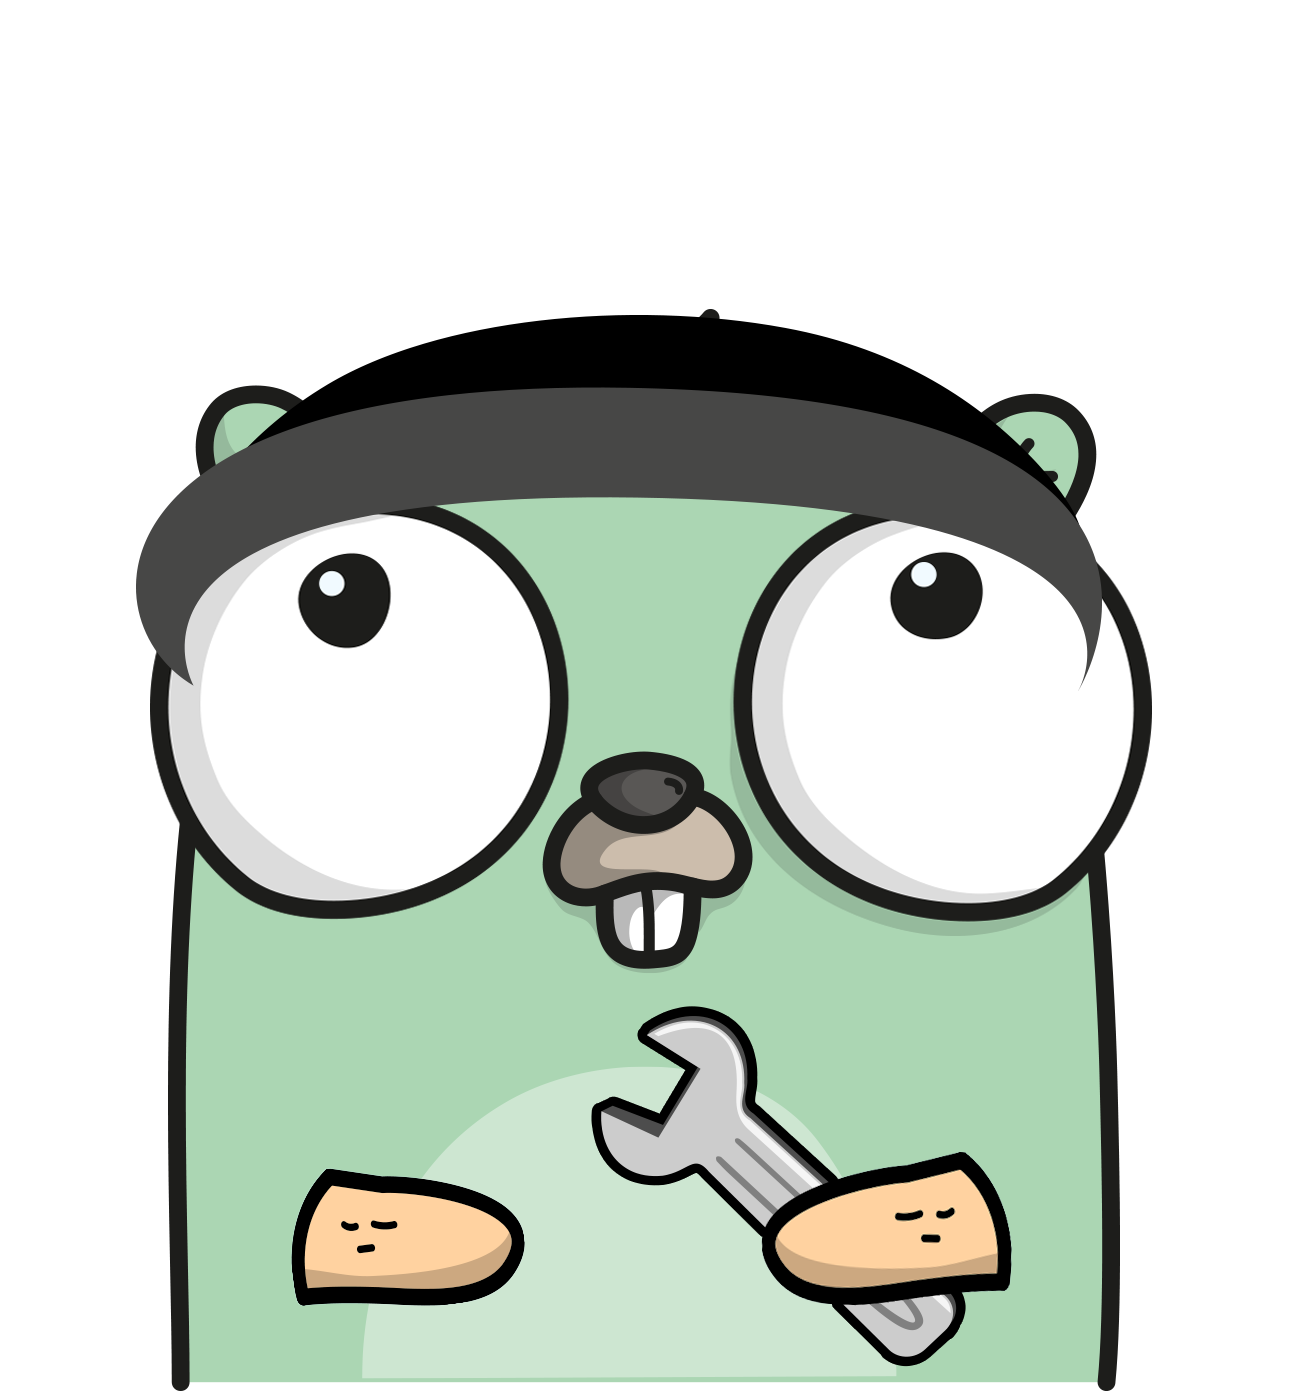
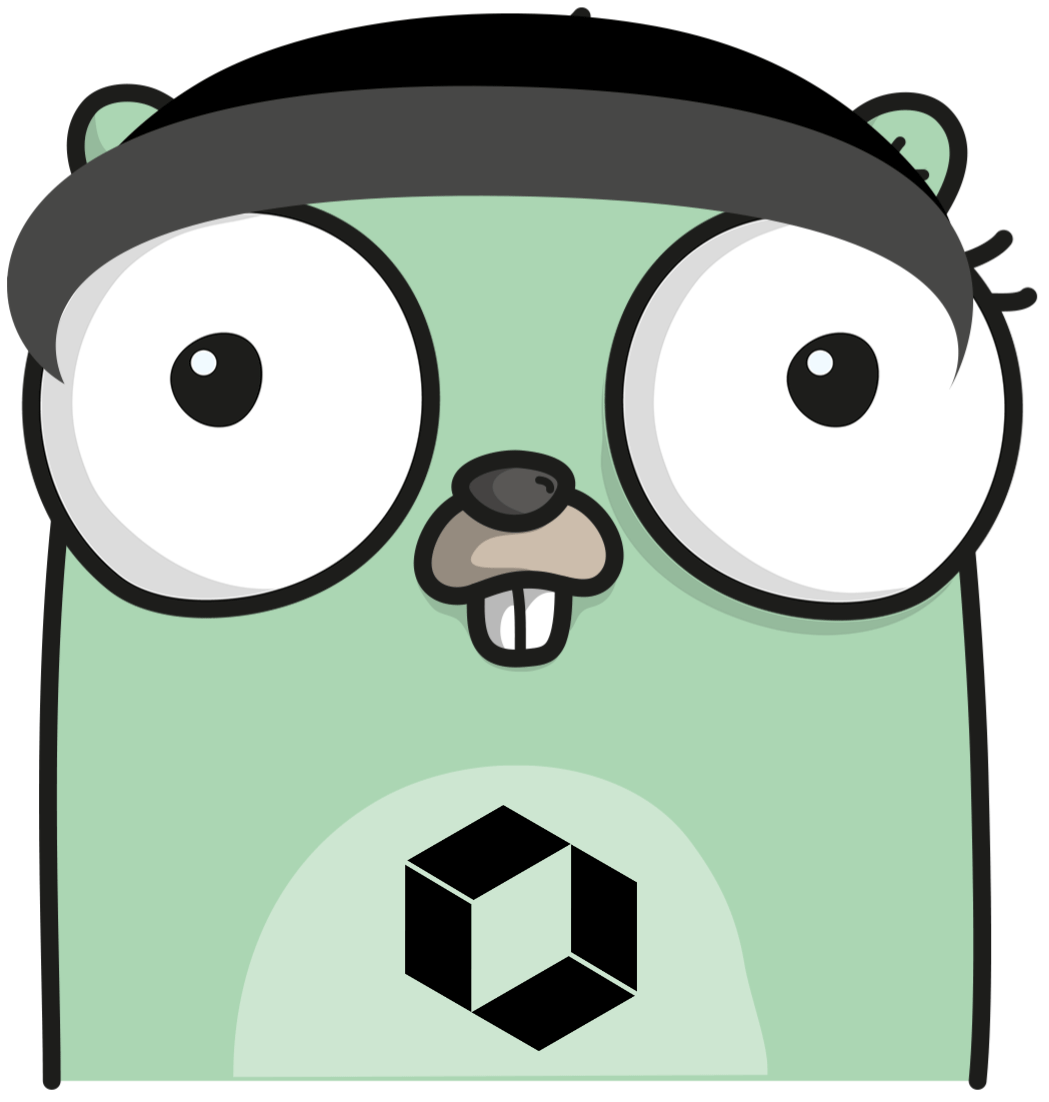
Add new gopher in Readme (#148)

diff --git a/README.md b/README.md
@@ -48,8 +48,9 @@ $ go get github.com/vulpemventures/go-elements@latest
 - [x] Unblinding ins / Blinding outs / Blinding issuance ins
 - [x] Signing a confidential input (use 0 value amounts to produce the hash for the signature)
 - [x] Asset issuance
-- [ ] Asset re-issuance
+- [x] Asset re-issuance
 - [x] Slip77
+- [ ] Upcoming [PSET spec](https://github.com/ElementsProject/elements/pull/951) support
 
 ## 🖥 Development
 
